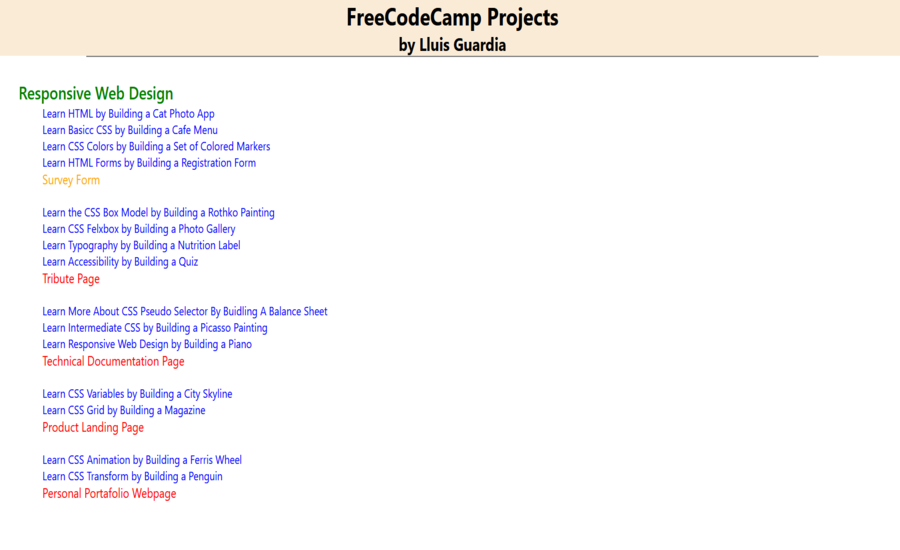
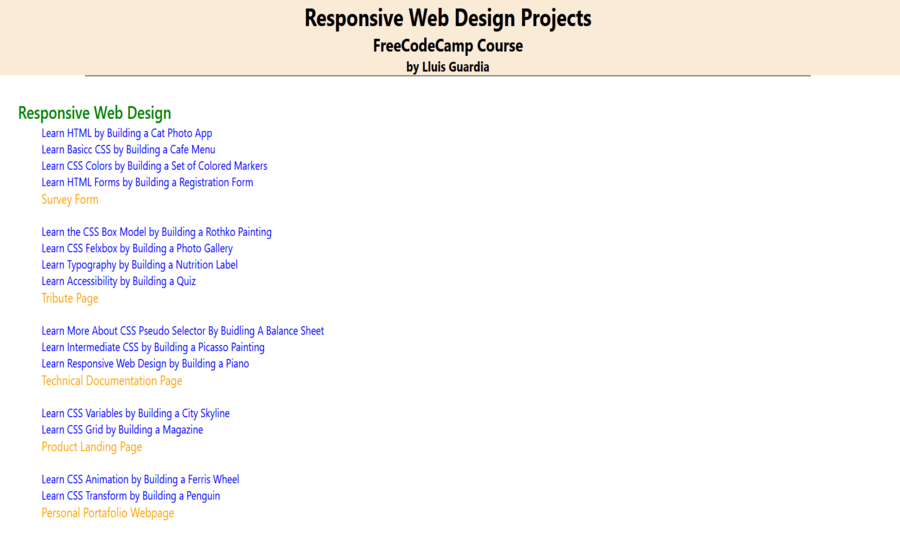
added projects from frontend libraries course

Changed region(s): [[0.0, 0.0, 1.0, 0.9582]]

diff --git a/index.html b/index.html
@@ -148,6 +148,14 @@
             <div class="d-flex flex-column flex-md-row justify-content-between mb-5">
               <div class="flex-grow-1">
                 <!-- <h3 class="mb-0"></h3>-->
+                <div class="subheading mb-0" href="https://www.freecodecamp.org/learn/front-end-development-libraries/">Front End Development Libraries</div>
+                <div class="mb-0"><a href="https://freecodecamp.org/certification/fccdf8d7e60-8170-4024-b5ec-1b5f8f4c9860/front-end-development-libraries" target="_blank">Certificate</a></div>
+              </div>
+              <div class="flex-shrink-0 text-right"><span class="text-primary">FreeCodeCamp<br />Winter 2022</span></div>
+            </div>
+            <div class="d-flex flex-column flex-md-row justify-content-between mb-5">
+              <div class="flex-grow-1">
+                <!-- <h3 class="mb-0"></h3>-->
                 <div class="subheading mb-0" href="https://www.freecodecamp.org/learn/2022/responsive-web-design/">Responsive Web Design</div>
                 <div class="mb-0"><a href="https://freecodecamp.org/certification/fccdf8d7e60-8170-4024-b5ec-1b5f8f4c9860/responsive-web-design" target="_blank">Certificate</a></div>
               </div>
@@ -712,8 +720,8 @@
                             <li>Random Quote Machine <a href="https://random-quote-machine-p65h.onrender.com" target="_blank" class="btn btn-modal-link border-dark"><i class="fas fa-link"></i> Link</a></li>
                             <li>Markdown Previewer <a href="https://markdown-preview.onrender.com" target="_blank" class="btn btn-modal-link border-dark"><i class="fas fa-link"></i> Link</a></li>
                             <li>Drum Machine <a href="https://drum-machine-v9vn.onrender.com" target="_blank" class="btn btn-modal-link border-dark"><i class="fas fa-link"></i> Link</a></li>
-                            <li>Javascript Calculator <a href="" target="_blank" class="btn btn-modal-link border-dark"><i class="fas fa-link"></i> Link</a></li>
-                            <li>25 + 5 Clock <a href="" target="_blank" class="btn btn-modal-link border-dark"><i class="fas fa-link"></i> Link</a></li>
+                            <li>Javascript Calculator <a href="https://js-calculator-w888.onrender.com/" target="_blank" class="btn btn-modal-link border-dark"><i class="fas fa-link"></i> Link</a></li>
+                            <li>25 + 5 Clock <a href="https://pomodoro-okme.onrender.com" target="_blank" class="btn btn-modal-link border-dark"><i class="fas fa-link"></i> Link</a></li>
                           </ul>
                         </div>
                         <div class="modal-image-container">
@@ -756,7 +764,7 @@
               <div class="row justify-content-center">
                 <div class="col-lg-10">
                   <div class="modal-body">
-                    <h2 class="text-uppercase">Projects FreeCodeCamp</h2>
+                    <h2 class="text-uppercase">PRIZE WEBSITES</h2>
                     <p class="item-intro text-muted">December 2022</p>
                     <div class="container modal-container">
                       <div class="container modal-contiguous-container">
